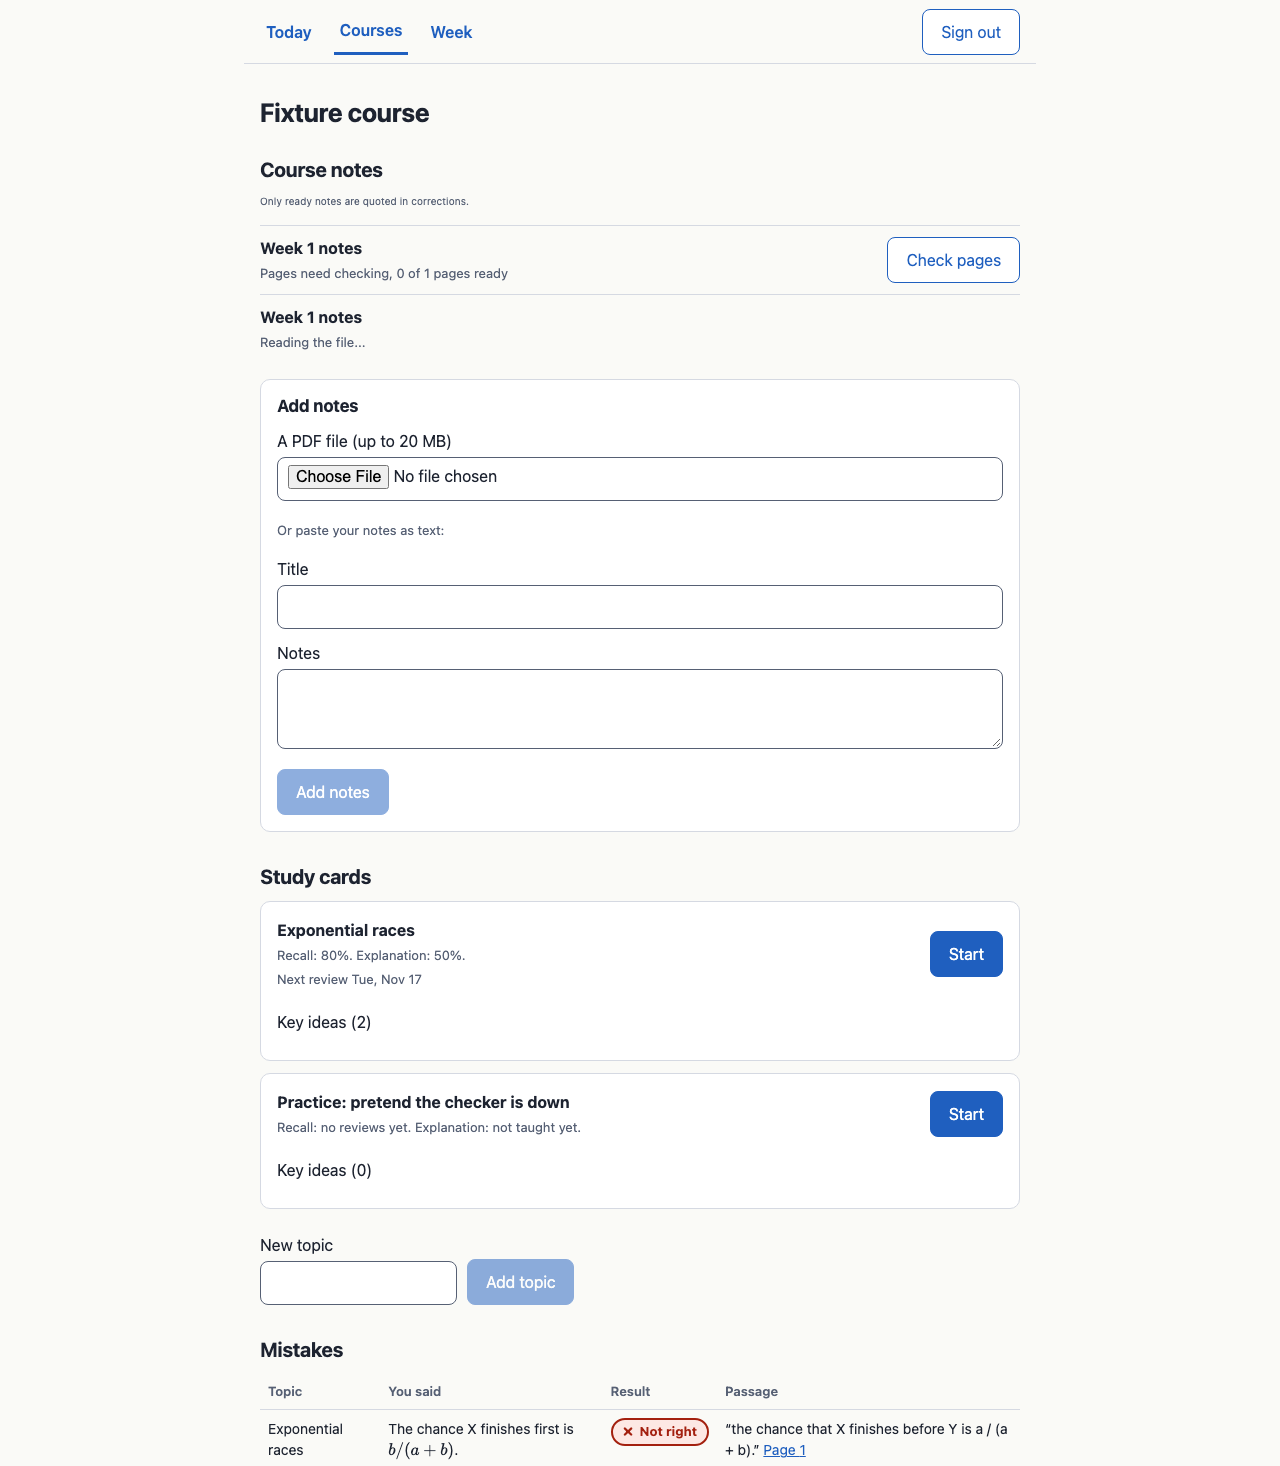
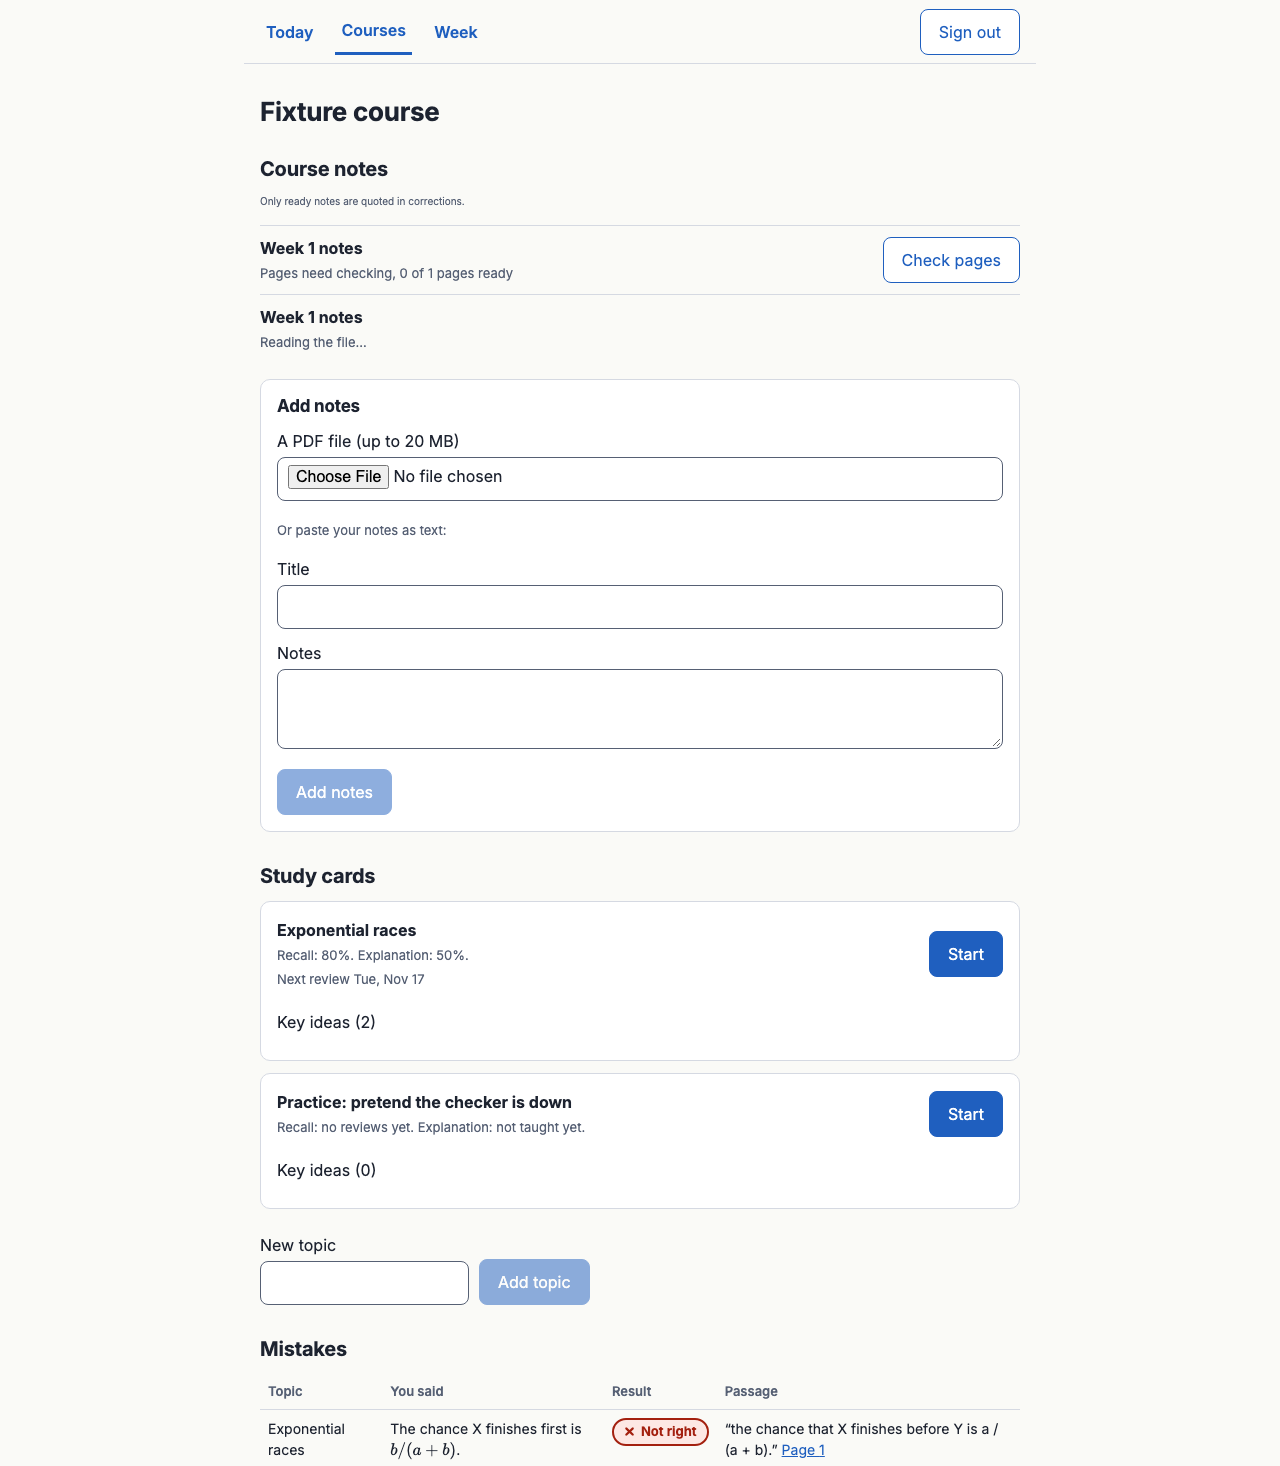
Self-host Inter with Fontsource so the approved font loads without a third-party request

diff --git a/web/src/style.css b/web/src/style.css
@@ -2,7 +2,7 @@
   --ok:#0b6b3a; --warn:#8a5a00; --bad:#a3200f; --none:#4b5565;
   --ok-bg:#e6f4ec; --warn-bg:#fff3cd; --bad-bg:#fde8e4; --none-bg:#eef0f4;
   --accent-dark:#174a96; --accent-bg:#eaf0fa; --focus:#1f5fbf; }
-body { margin:0; font:16px/1.5 Inter, system-ui, sans-serif; color:var(--ink); background:var(--bg); }
+body { margin:0; font:16px/1.5 'Inter Variable', Inter, system-ui, sans-serif; color:var(--ink); background:var(--bg); }
 main { max-width:760px; margin:0 auto; padding:24px 16px 64px; }
 h1, h2, h3, h4 { line-height:1.25; letter-spacing:-.01em; }
 h1 { font-size:26px; margin:8px 0 16px; } h2 { font-size:20px; margin:28px 0 12px; } h3 { font-size:17px; margin:0 0 12px; } h4 { font-size:16px; margin:16px 0 8px; }

diff --git a/web/src/main.tsx b/web/src/main.tsx
@@ -1,5 +1,6 @@
 import { createRoot } from 'react-dom/client'
 import { App } from './App'
+import '@fontsource-variable/inter'
 import './style.css'
 
 createRoot(document.getElementById('root')!).render(<App />)

diff --git a/rpi/P1-POLISH/impl-log.md b/rpi/P1-POLISH/impl-log.md
@@ -11,7 +11,7 @@ Changed (web/src/style.css, plus 3 headings and the loading class in the .tsx fi
 - Mistakes table scrolls inside its box on a phone instead of squeezing to one word per line.
 - Start button error shows on its own line. Loading text uses the muted colour.
 
-Not done: Inter is not loaded (no font file is bundled; the stack falls back to system-ui). Loading it needs a self-hosted font (new dependency) or Google Fonts (sends student IPs to Google). Ask Cris.
+Inter: Cris chose self-hosting. Added @fontsource-variable/inter 5.3.0 (exact), imported once in main.tsx, system-ui fallback kept. No Latin-only entry exists; index.css splits subsets by unicode-range, so browsers fetch only the Latin file (48 kB woff2). All subsets add 516 kB to dist, not downloaded unless needed.
 
 Tests: npm run build ok; vitest 9/9; Playwright mock 6/6; Playwright full API 2/2 (fresh DB polish_e2e, dropped after).
 Shots: rpi/P1-POLISH/shots, made by shots.ts (copy into web/ with a config pointing at it to rerun; SHOT=after).
